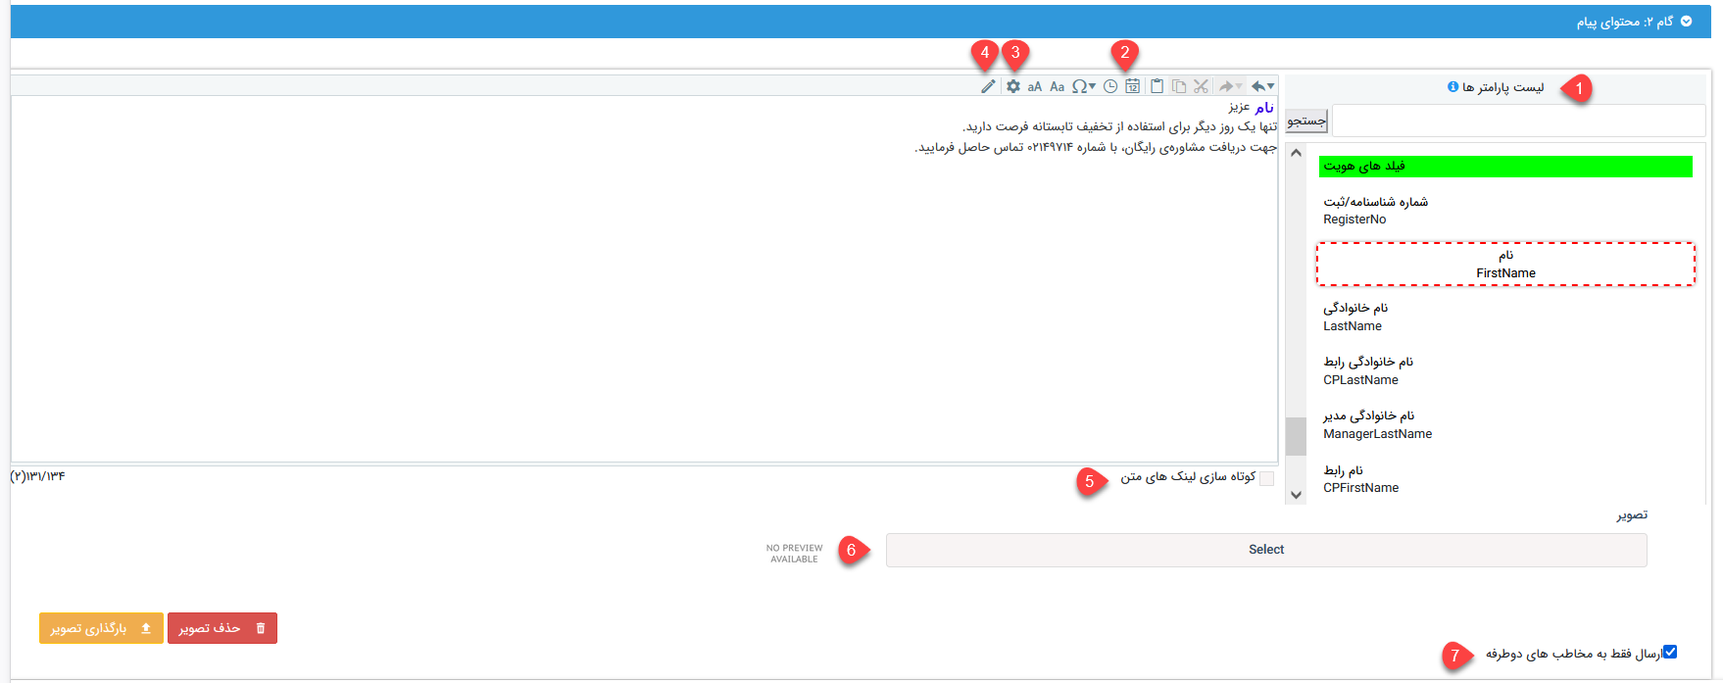
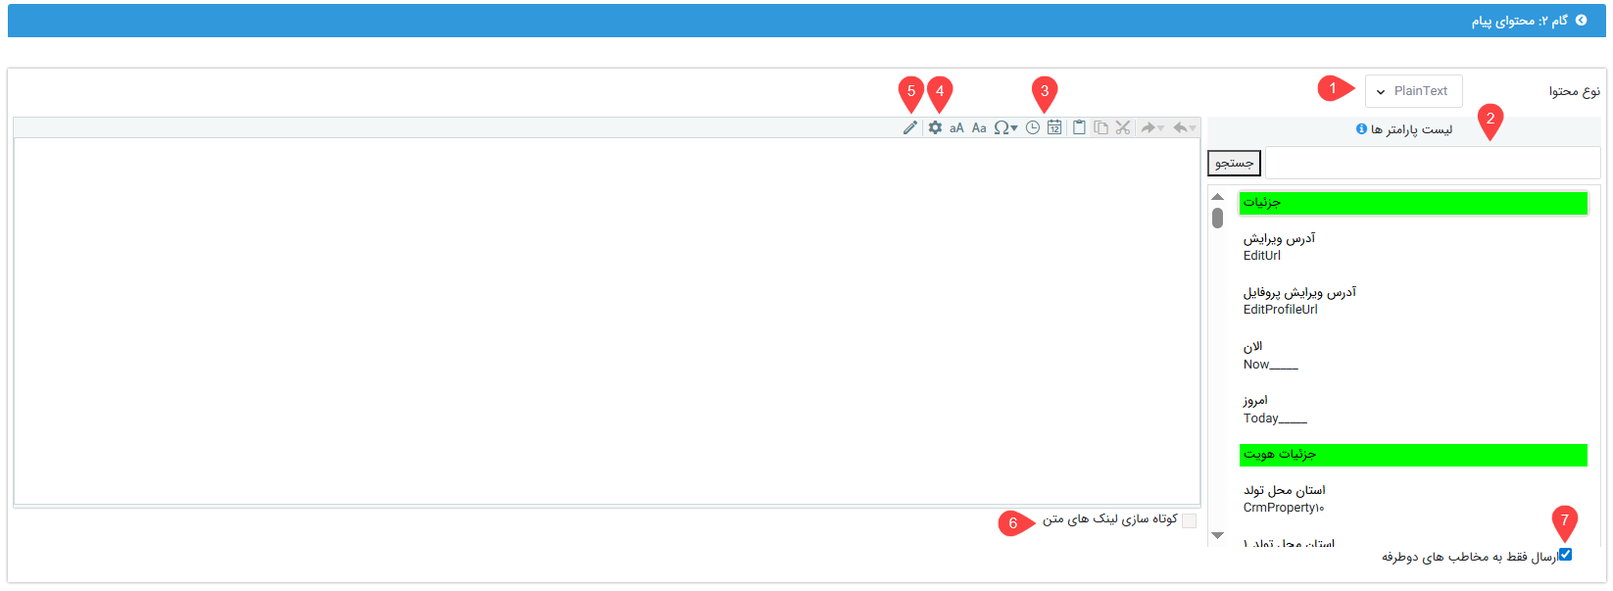
2.8.7.1-edit

diff --git a/Help/Marketing/SocialNetworkMessage/GroupMessage/MessageContent.md b/Help/Marketing/SocialNetworkMessage/GroupMessage/MessageContent.md
@@ -2,7 +2,7 @@
 در گام دوم از تنظیم ارسال گروهی پیام در شبکههای پیامرسان، لازم است که محتوای پیام را مشخص نمایید. در تنظیم محتوای پیام میتوانید:<br>
 - از پارامترهای هوشمند برای شخصیسازی پیامهایتان استفاده کنید.
 - از قالبهای آماده استفاده کنید.
-- به پیام خود تصویر اضافه کنید.
+- به پیام خود تصویر یا فایل اضافه کنید.
 - امضای خود را در پیام درج کنید.<br>
 در ادامه با قابلیتهای مختلف بخش محتوای پیام آشنا میشویم.<br>
 
@@ -11,27 +11,44 @@
 
 ![محتوای پیام گروهی شبکههای پیامرسان](./Image/social-network-message-content.png)
 
-### 1. پارامتر هوشمند
+### 1. نوع محتوا
+ابتدا نوع محتوای خود را انتخاب کنید.<br>
+**A.** در صورت انتخاب گزینهی Plain Text تنها میتوانید پیام متنی تنظیم و ارسال نمایید. در تنظیم این متن میتواند از پارامترهای هوشمند، قالبهای آماده مدیریت پیامهای الگو و سایر موارد که در ادامه به آنها پرداخته میشود، استفاده کنید.<br>
+**B.** در صورت انتخاب گزینهی Word هم میتوانید از فایل/قالب از پیش تعریف شده در مدیریت پیامهای الگو استفاده کنید و هم میتوانید فایل مورد نظر را با استفاده از ابزار web client tool از همین بخش ویرایش کنید. نحوه تنظیم پیام از این بخش دقیقاً مشابه [تنظیم قالب پیشنمایش](https://github.com/1stco/PayamGostarDocs/blob/master/Help/Settings/Personalization-crm/CustomizationCommonSettings/PrintTemplateSetting.md) میباشد. توجه داشتهباشید که پیام مندرج در بخش محتوا، همراه فایل word برای مخاطب ارسال میشود.<br>
+
+![محتوا از نوع word](./Image/word-type-content.png)
+
+**C.** در صورت نیاز به ارسال تصویر، گزینهی Image را انتخاب کنید. در این حالت هم میتوانید از تصاویر ذخیره شده در مدیریت پیامهای الگو استفاده کنید و هم میتوانید با استفاده از کلید Select، تصویر مورد نظر را بارگذاری و ارسال نمایید. توجه داشتهباشید که پیام مندرج در بخش محتوا، همراه تصویر و متصل به آن برای مخاطب ارسال میشود.<br>
+
+![پیوست تصویر](./Image/Image-type.png)
+
+**D.** در صورت نیاز به ارسال فایل PDF، گزینهی PDF را انتخاب کنید. در این حالت هم میتوانید از PDFهای ذخیره شده در مدیریت پیامهای الگو استفاده کنید و هم میتوانید با استفاده از کلید Select، فایل مورد نظر را بارگذاری و ارسال نمایید. توجه داشتهباشید که پیام مندرج در بخش محتوا، همراه فایل برای مخاطب ارسال میشود.<br>
+
+![پیوست PDF](./Image/PDF-type.png)
+
+**E.** در صورت نیاز به ارسال فایل Excel، گزینهی Excel را انتخاب کنید. در این حالت هم میتوانید قالبهای Excel که پیشتر در مدیریت پیامهای الگو تعریف کردهاید استفاده کنید و هم میتوانید با استفاده از کلید Select، فایل مورد نظر را بارگذاری و ارسال نمایید. توجه داشتهباشید که پیام مندرج در بخش محتوا، همراه فایل برای مخاطب ارسال میشود.<br>
+
+![پیوست Excel](./Image/Excel-type.png)
+
+### 2. پارامتر هوشمند
 برای تنظیم متن پیام شخصیسازی شده میتوانید از پارامترهای هوشمند استفاده کنید. با استفاده از این پارامترها، اطلاعاتی از مشخصات هر هویت در متن پیام فراخوانی و با پارامتر جایگزین میشود. به عنوان مثال میتوانید مشخص کنید که نام هر هویت در ابتدای پیام قرار گیرد تا پیام به صورت خاص، شخص را مخاطب قرار دهد. با توجه به اینکه پیام به صورت گروهی برای چندین مخاطب مختلف تنظیم میشود، برای این کار باید از پارامتر هوشمند استفاده کنید. برای درج پارامترهای هوشمند کافیست که در هر بخش از متن که به آنها نیاز دارید، پارامتر را از لیست سمت راست پیدا کنید و با دو بار کلیک کردن آن را به پیام خود اضافه کنید. در صورت نیاز به کسب اطلاعات بیشتر میتوانید از [راهنمای پارامتر هوشمند](https://github.com/1stco/PayamGostarDocs/blob/master/Help/Marketing/Parameters/MessageParameters.md) استفاده نمایید.<br>
 
-### 2. تاریخ و ساعت
+### 3. تاریخ و ساعت
 با کلیک بر روی آیکون تقویم (Insert Date) و ساعت (Insert Time) میتوانید تاریخ لحطهی تنظیم پیام و همچنین ساعت تنظیم پیام را در متن پیام خود درج نمایید.<br>
 
 > **نکته**<br>
 > با استفاده از تاریخ و ساعتی که در نوار ابزار بالای صفحه وجود دارد، تاریخ و ساعت لحظه تنظیم پیام در متن پیام درج میشود که متنی ثابت است. لکن در صورت درج تاریخ با استفاده از پارامترهای هوشمند «امروز» و «الان»، تاریخ و ساعت ارسال پیام در متن پیام درج میشود. بنابراین ثابت نیست و بنا بر زمان ارسال میتواند متفاوت باشد.<br>
 
-### 3. استفاده از پیامهای الگو
+### 4. استفاده از پیامهای الگو
 برای درج متن پیام میتوانید از پیامهای الگویی که پیشتر در نرمافزار ذخیره شدهاند نیز استفاده نمایید. در بخش مدیریت پیامهای الگو، قالبهای مختلفی برای انواع رسانهها نگهداری میشود (در صورت نیاز میتوانید به [راهنمای مدیریت پیامهای الگو](https://github.com/1stco/PayamGostarDocs/blob/master/Help/Marketing/moshtarak-abzar/gam%20do/ghaleb-payam/ghaleb-payam.md) مراجعه کنید).<br>
 در قسمت نوار ابزار فضای تنظیم محتوای پیام، بر روی آیکون چرخدنده (File/Template) کلیک کنید تا پیامهای الگویی که پیشتر برای پیامرسانها ذخیره شدهاست، به شما نمایش دادهشود. از بین الگوهای تعریف شده، کافیست بر روی الگوی مورد نظر دو بار کلیک نمایید تا متن قالب در بخش محتوای پیام اضافه شود.<br>
+توجه داشتهباشید که این الگو تنها از بین الگوهای متنی قابل انتخاب بوده و برای محتوای پیام اعمال میشود و با پیام الگوی انتخابی از نوع تصویر، PDF، Word و Excel متفاوت میباشد.<br>
 
-### 4. درج امضا
+### 5. درج امضا
 نرمافزار به هر کاربر این امکان را میدهد که امضای خود را (و فقط امضای خود را) در پایان پیامهایش درج کند. این امضا میتواند متن کوتاهی از نام، سمت شغلی و حتی شماره داخلی او باشد. برای درج امضا، آیکون قلم (Sign) را در نوار ابزار بالای بخش محتوا بیابید. با کلیک بر روی این آیکون وارد صفحه لیست امضاهای خود میشوید. اگر پیشتر برای خود امضایی در نرمافزار تعریف نکردهاید، از [راهنمای اضافه کردن امضا](https://github.com/1stco/PayamGostarDocs/blob/master/Help/Marketing/moshtarak-abzar/gam-do/add-a-signature/add-a-sign.md) استفاده نمایید و امضا(ها)ی خود را به لیست اضافه نمایید. کافیست بر روی امضای مورد نظر دو بار کلیک کنید تا به انتهای محتوای پیام شما اضافه شود.<br>
 
-### 5. کوتاهسازی لینک
+### 6. کوتاهسازی لینک
 اگر در متن پیامتان از لینک استفاده کردهاید با فعالسازی گزینه «کوتاهسازی لینکهای متن»، لینک به صورت کوتاهشده برای مخاطب ارسال میشود.<br>
-
-### 6. افزودن تصویر
-برای درج تصویر در پیام خود، با کلیک بر روی کلید «Select»، ابتدا تصویر مورد نظر را انتخاب نمایید. سپس با کلیک بر روی کلید «بارگذاری» آن را در محتوای پیام خود بارگذاری کنید. اگر بارگذاری به درستی انجام شود، پیشنمایشی از تصویر را میتوانید در صفحه مشاهده نمایید. در صورت نیاز به حذف تصویر بارگذاری شده می توانید از کلید حذف بدین منظور استفاده نمایید.<br>
 
 ### 7. ارسال فقط به مخاطبهای دوطرفه
 در صورت فعال بودن این گزینه، پیام تنها برای مخاطبانی ارسال میشود که هم علاوه بر ذخیره بودن شماره آنها در نرمافزار، شماره تلگرام شما در دستگاه (موبایل) آنها ذخیره باشد.<br>

diff --git a/releasenote/ReleaseNote2.8.7.1.md b/releasenote/ReleaseNote2.8.7.1.md
@@ -7,6 +7,9 @@
 نحوهی ارسال پیام از طریق [ویجت دسترسی سریع](https://github.com/1stco/PayamGostarDocs/blob/master/Help/Marketing/CommonTools/QuickSend_2.8.7.1.md) و [تنظیم برنامههای ارسال گروهی](https://github.com/1stco/PayamGostarDocs/blob/master/Help/Marketing/SocialNetworkMessage/GroupMessage/GroupMessageManagement.md) از طریق شبکههای پیامرسان را میتوانید در مستندات مربوطه مشاهده نمایید. <br>
 - **وبسرویس؛ امکان ایجاد، حذف و بهروزرسانی از طریق API**<br>
 برای انتقال اطلاعات و ارتباط بین دو سیستم، پیشتر APIهای فرصت در روش rest برای متد find در اختیار توسعهدهندگان قرار داده شدهبود.  زین پس از روشهای Create، Delete و Update نیز میتوانید در وبسرویسهای خود استفاده نمایید.<br>
+- **فرم؛ ثبت فرم گروهی**<br>
+قابلیت ثبت گروهی آیتم برای فرم هم فعال گردید. زین پس با انتخاب هویتهای مورد نظر میتوانید برای آنها به صورت یکجا فرم ایجاد کنید. مشابه ایجاد فرصت گروهی میتوانید هویتهای مورد نظر را انتخاب و با کلیک راست بر روی آنها از گزینهی «ثبت فرم» برای ایجاد فرم گروهی استفاده کنید. <br>
+
 ##### موارد بهبودیافته
 - **هویت؛ دریافت خروجی اکسل از پرسنل و شرکتها**<br>
 در تب پرسنل در صفحه پروفایل هویتهای حقوقی و تب شرکت در صفحه پروفایل هویتهای حقیقی کلید «فرستادن به اکسل» اضافه شدهاست. بدین ترتیب میتوانید از لیست پرسنل یک شرکت و شرکتهای یک شخص خروجی اکسل تهیه نمایید.<br>
@@ -30,5 +33,7 @@
 در نسخهی پیشین در برخی موارد کاربران هنگام دریافت پیشنمایش از آیتم، خروجی را در فرمتی غیر از حالت انتخابی در تنظیمات دریافت میکردند. در مواردی دیگر هنگام دریافت خروجی اکسل از لیست فاکتورها در تاریخچهی CRM با خطا مواجه میشدند. این خطاها در نسخهی جدید رفع شدهاست.<br>
 - **شخصیسازی؛ رفع خطاهای مرتبط با افزودن فیلدهای اضافه لیست کشویی چندانتخابی و لیستهای مرتبط**<br>
 در نسخهی قبلی، هنگام افزودن فیلد لیست مرتبط و همچنین هنگام استفاده از  مشخصه موجود برای کپی کردن یک فیلد از نوع لیست کشویی چندانتخابی کاربر با خطاهایی مواجه میشد. ایجاد فیلد لیست مرتبط با خطا مواجه میشد و فیلد لیست کشویی چندانتخابی بدون گزینههای موجود در آن به آیتم مقصد انتقال پیدا میکرد. خطاهای مذکور در نسخهی جدید رفع شده و هم افزودن فیلد لیستهای مرتبط و هم استفاده از مشخصهی موجود لیست کشویی چندانتخابی بدون مشکل انجام میپذیرد.<br>
+-**ویرایش آیتم؛ اصلاح عملکرد نرمافزار هنگام ویرایش همزمان دو کاربر بر روی یک آیتم**<br>
+با اصلاحات انجام گرفته بر روی نرمافزار، از خطای احتمالی هنگام ویرایش همزمان دو کاربر بر روی یک آیتم جلوگیری میشود. بر اساس اصلاحات نسخهی جدید، چنانچه یک آیتم توسط دو یا چند کاربر در حال مشاهده باشد، در صورت اعمال تغییرات توسط یک کاربر، سایر کاربران برای ذخیرهی هر نوع تغییراتی ملزم به بهروزرسانی صفحه پیش از اعمال تغییرات خواهندبود. به بیان دیگر، پس از ذخیرهی تغییرات توسط یک کاربر، هر یک از کاربران دیگر که صفحهی آیتم را در نرمافزار خود باز داشتهباشند، با انتخاب کلید ذخیره با پیغام خطا جهت بهروزرسانی آیتم روبهرو میشوند. پس از بهروزرسانی میتوانند تغییرات مورد نظر را اعمال و آیتم را ویرایش نمایند.<br>
 - **تماس؛ رفع خطای داشبورد مرکز تماس و پاپآپ تماس**<br>
 در نسخهی قبلی، کاربران در استفاده از قابلیت شنود و نجوا با مشکلاتی روبهرو بودند و در برخی موارد، اطلاعاتی نظیر رنگ هویت و داخل پاسخگو در پاپآپ تماس نمایش داده نمیشد. این خطا در نسخهی جدید رفع شدهاست.<br>

diff --git a/Help/Marketing/CommonTools/QuickSend_2.8.7.1.md b/Help/Marketing/CommonTools/QuickSend_2.8.7.1.md
@@ -47,6 +47,7 @@
 - در صورت استفاده از رسانهی ایمیل، عنوان آن را نیز میتوانید درج کنید تا در بخش Subject ایمیل نمایش دادهشود.
 - در صورت استفاده از رسانهی ایمیل در ارسال سریع به خاطر داشتهباشید که امکان پیوست فایل فراهم نمیباشد. در صورت نیاز به پیوست فایل، از «ارسال ایمیل» به جای ارسال سریع استفاده کنید.
 - در صورت استفاده از رسانهی فکس، پیام را باید با استفاده از ابزار Web client tool، مشابه قالب پیشنمایش، تنظیم نمایید. بدین منظور میتوانید از [راهنمای تنظیم قالب پیشنمایش](https://github.com/1stco/PayamGostarDocs/blob/master/Help/Settings/Personalization-crm/CustomizationCommonSettings/PrintTemplateSetting.md) استفاده کنید.
-- در صورت استفاده از پیام شبکههای اجتماعی، در صورت تمایل تصویر مرتبط با پیام خود را نیز در آن بارگذاری نمایید تا همراه با پیام برای مخاططب ارسال شود.
+- در صورت استفاده از پیام شبکههای اجتماعی، میتوانید محتوایی از نوع تصویر، فایل Excel، فایل Word یا فایل PDF به پیام خود اضافه نمایید و یا از قالبهای از پیش تعریف شده در بخش [مدیریت پیامهای الگو](https://github.com/1stco/PayamGostarDocs/blob/master/Help/Basic-Information/Model-message-management/Model-message-management.md) استفاده کنید. در صورت انتخاب فایل Word از همین بخش هم میتوانید با استفاده از ابزار web client tool اقدام به تنظیم قالب نمایید (روش انجام این کار مشابه [تنظیم قالب پیشنمایش](https://github.com/1stco/PayamGostarDocs/blob/master/Help/Settings/Personalization-crm/CustomizationCommonSettings/PrintTemplateSetting.md) میباشد). لازم به ذکر است که در صورت انتخاب گزینهی Plain Text صرفاً متن پیام مندرج برای مخاطب/مخاطبان ارسال میشود لکن با انتخاب هر یک از قالبهای دیگر میتوانید متن را در کنار فایل ارسال نمایید. <br>
 
-
+> **نکته**<br>
+> با توجه به اینکه نحوه تنظیم پیامهای شبکههای اجتماعی کمی با سایر رسانهها متفاوت میباشد، پیشنهاد میشود برای آشنایی با نحوهی تنظیم پیام از این نوع به راهنمای [محتوای پیام شبکههای پیامرسان](https://github.com/1stco/PayamGostarDocs/blob/master/Help/Marketing/SocialNetworkMessage/GroupMessage/MessageContent.md) مراجعه نمایید.
